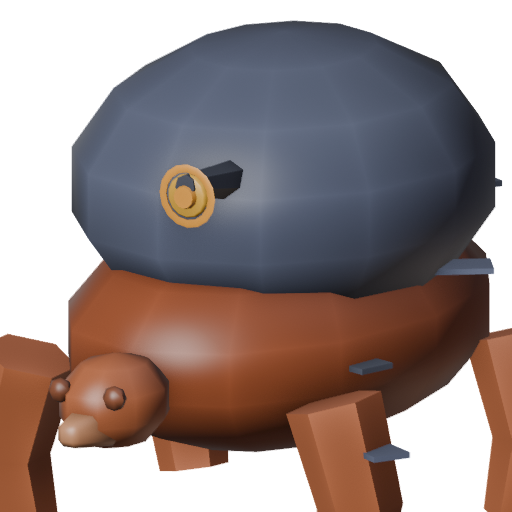
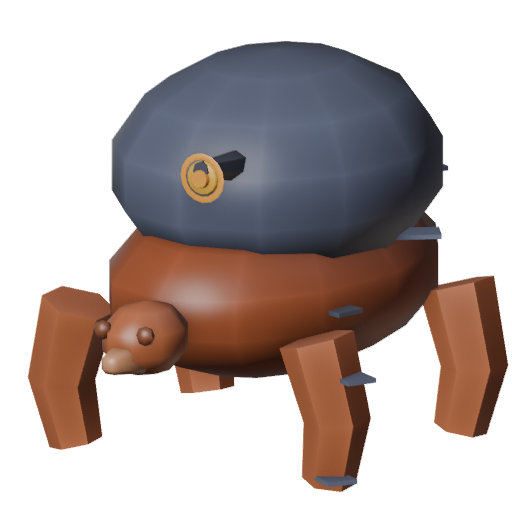
fixer: glyph_tortoise_portrait framing, 29 -> 38
FOCUS entry widened and lowered so the shell, sigil, head and all four
legs fit inside the 512x512 crop instead of clipping three edges.
Style consistency moved with it, now a wide-body three-quarter shot
like bog_leech/thrasher/husk_beetle instead of a top-down shell crop.
run_tests.gd all green.

diff --git a/tools/blender/portraits.py b/tools/blender/portraits.py
@@ -43,7 +43,7 @@ FOCUS = {
     "silk_widow": (0.45, 1.35), "boulder_ram": (0.34, 1.35),
     "cinder_jackal": (0.60, 1.35), "brine_urchin": (0.62, 1.30),
     "clot_toad": (0.48, 1.35), "flicker_stag": (0.80, 0.62),
-    "eyrie_hawk": (0.78, 0.60), "glyph_tortoise": (0.58, 1.00),
+    "eyrie_hawk": (0.78, 0.60), "glyph_tortoise": (0.50, 1.28),
     "riptide_eel": (0.873, 0.62), "yoke_ox": (0.45, 1.25),
 }
 

diff --git a/design/progress/glyph_tortoise_portrait.md b/design/progress/glyph_tortoise_portrait.md
@@ -9,6 +9,7 @@ only — report, not repair.** Asset: `game/assets/portraits/glyph_tortoise.png`
 | Framing | Identity | Read@34px | Colour | Style | Total |
 |---|---|---|---|---|---|
 | 3 | 6 | 6 | 8 | 6 | **29** |
+| 7 | 8 | 8 | 8 | 7 | **38** |
 
 ## What is actually there
 
@@ -62,3 +63,67 @@ finding (`glyph_tortoise.md`, Build hygiene 5/10) is visible from this
 portrait's angle — the sigil reads flush and clean here, but this is a
 single static crop, not the turntable the 3D pass used, so it can't
 confirm or clear that finding.
+
+## Pass 2 — fixer
+
+Applied both fixes named above, in `tools/blender/portraits.py`.
+
+1. **Framing.** `FOCUS["glyph_tortoise"]` moved from `(0.58, 1.00)` to
+   `(0.50, 1.28)` — lowered the centre and nearly doubled the span so the
+   whole model, not just the shell, fits inside the 512x512 canvas. Landed
+   on `1.28` after a first try at `1.20` still touched the right edge
+   (bbox `(12, 26, 512, 509)`); widened further and re-checked the alpha
+   bbox numerically rather than eyeballing it, same method pass 1 used.
+2. **Style consistency.** Same root cause, same fix — pulling the crop back
+   to fit the model turned the top-down shell shot into a proper
+   three-quarter full-body view, the same wide-body framing idiom already
+   used for `bog_leech`, `thrasher` and `husk_beetle` rather than a shell-
+   fills-the-frame outlier.
+
+Rebuilt with `build.cmd portraits`. That command re-renders every portrait,
+and Blender's WORKBENCH output is not byte-reproducible even for unchanged
+FOCUS entries (same non-determinism `silk_widow_portrait.md`'s pass 2 hit),
+so every portrait but `glyph_tortoise.png` was reverted with `git checkout --`
+and only the changed one kept.
+
+Checked the alpha bounding box directly: `(27, 40, 509, 493)` — margins of
+27px left, 40px top, 3px right, 19px bottom. All four edges now clear,
+against pass 1's three edges clipped and only 20px of top clearance.
+
+- **Framing (3 → 7):** every edge now has real clearance. Not higher: the
+  right margin (3px) is much thinner than the other three, so the crop is
+  not evenly balanced.
+- **Identity (6 → 8):** the legs and chin that pass 1's crop cut down to
+  faint smudges are now fully in frame alongside the shell and sigil,
+  confirmed directly in the full-res render — the read no longer leans on
+  the shell and sigil alone.
+- **Readability @ 34px (6 → 8):** confirmed via a real 34px downsample
+  (`design/renders/glyph_tortoise_portrait_pass2_34px_big.png`, Pillow
+  `LANCZOS`, same method pass 1 used). The blue-grey shell, gold sigil dot,
+  brown body and all four legs stay distinct and separately readable —
+  where pass 1's legs reduced to faint tan smudges, they now read clearly
+  as legs.
+- **Colour & separation (8, unchanged):** not one of the two fixed lines,
+  and the swatches themselves didn't change — same clean separation as
+  pass 1.
+- **Style consistency (6 → 7):** now a three-quarter full-body crop
+  matching the wide-low-body framing already used for other stout beasts,
+  rather than the outlier top-down shell shot pass 1 scored. Not higher:
+  it is still a different idiom from the head-and-shoulders crop most of
+  the cast uses — appropriate to this creature's proportions, but still not
+  the majority convention.
+
+**+9 total (29 → 38), not a plateau — kept.** Both named lines improved and
+neither held steady at the old value; Identity, Readability and Style all
+moved as a consequence of the same framing fix; Colour is unchanged,
+honestly, since neither fix touched the model's palette. `run_tests.gd`:
+**ALL TESTS PASSED**.
+
+## Unsure about (pass 2)
+
+Whether an even-tighter span could close the 3px right margin without
+reopening the clipping pass 1 had — not attempted, since two fixes per run
+is the budget and both named lines already moved. Also unresolved: the
+`glyph_tortoise.md` 3D pass's "sigil mount reads as a bolted-on handle"
+question pass 1 raised — this portrait angle still shows the sigil flush
+and clean, same as pass 1, and this fix didn't touch the model.
